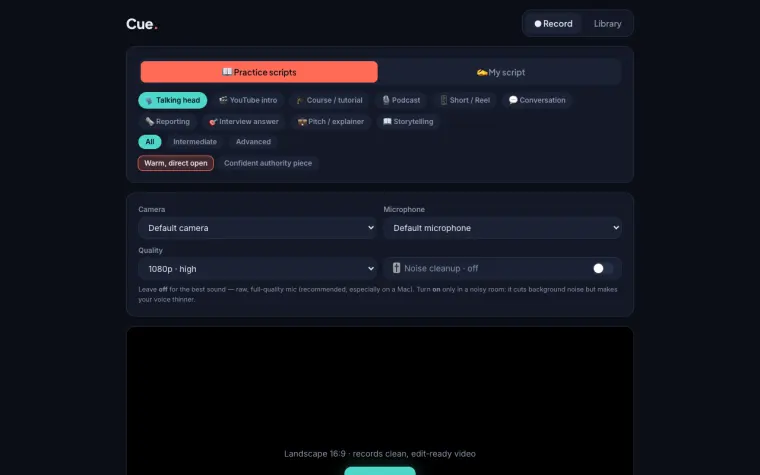
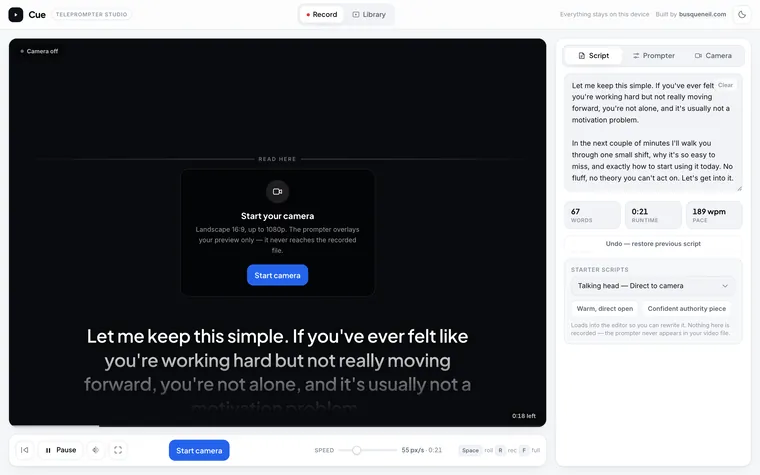
Free tools: add Orbit, refresh the Cue shot, clear the Talk pill
Orbit joins /free with a current dark-mode screenshot of the live app, so the
page no longer omits the biggest thing on it. Cue's screenshot was the old dark
build from before yesterday's studio rebuild; it is now the light studio mid-roll
with the prompter running, and /work picks up the same two assets.

Six cards means the inherited nth-child(4)/(5) span-3 rhythm left card six alone
in a row with four empty columns, so /free is a clean 3 + 3 above 980px and
untouched below it.

The page promised "no email address" while Orbit needs an account, so the promise
now says what is actually true: no card, no trial, no call, and Orbit's free plan
stays free.

Also gives the Talk pill somewhere to sit. Measured with elementFromPoint: while
Neil is live it covered all four phone tabs at 390px and RSS / Resume / Contact /
LinkedIn at 1440px.

diff --git a/src/styles/v8.css b/src/styles/v8.css
@@ -106,6 +106,20 @@ html.rail-collapsed .v8 .rail-id { align-items: center; justify-content: center;
    fixed to the viewport and was covering LinkedIn/GitHub at <=768px. */
 .v8 .shell-foot { display: flex; justify-content: space-between; gap: 16px; flex-wrap: wrap; margin-top: 72px; padding-top: 20px; padding-bottom: 56px; border-top: 1px solid var(--hair); font-size: 13px; color: var(--muted); }
 .v8 .shell-foot a { color: inherit; text-decoration: none; margin-left: 14px; }
+/* ---- Talk concierge pill: keep it off the site's own bottom chrome ----
+   The pill (talk.busqueneil.com/widget.js) is fixed to the bottom-right and appears
+   only while Neil is actually live, which is exactly why this was easy to miss: at
+   390px it sat squarely on the phone tab bar and swallowed all four tabs, and at
+   1440px it covered RSS / Resume / Contact / LinkedIn. Measured with elementFromPoint,
+   not by eye. The widget reads --talk-bottom through the shadow boundary and stamps
+   html[data-talk-bubble="live"] while the pill is up, so the footer only pays for the
+   clearance when there is something to clear. */
+#talk-widget-root { --talk-bottom: 22px; }
+@media (max-width: 900px) {
+  /* the fixed tab bar owns the bottom ~72px here, safe-area padding included */
+  #talk-widget-root { --talk-bottom: 92px; --talk-bottom-sm: 92px; }
+}
+html[data-talk-bubble="live"] .v8 .shell-foot { padding-bottom: 116px; }
 /* Socials live in the desktop rail; the rail is hidden under 900px, so phones and tablets
    get them here instead. */
 /* Story / Blog / Shop leave the phone tab bar, so they surface here instead. Desktop
@@ -710,7 +724,19 @@ html.rail-collapsed .v8 .rail-id { align-items: center; justify-content: center;
 .rail-collapsed .v8 .rail-book span, .v8 .shell.is-collapsed .rail-book span { display: none; }
 
 /* ---- free page ---- */
-.v8 .free-grid .offer-card:nth-child(4), .v8 .free-grid .offer-card:nth-child(5) { grid-column: span 3; }
+/* Six cards since Orbit joined, so the grid is a clean 3 + 3. The inherited
+   nth-child(4)/(5) span-3 rhythm was tuned for the original five and left card 6
+   stranded alone in a row with four empty columns. Both overrides are needed: the
+   span AND the taller 16/7 shot that rode with it.
+   ⚠ Scoped to the 6-column layout ONLY. Unscoped, this out-specifies the
+   max-width:980px `span 1` rule, so cards 4 and 5 went full-bleed on tablet and, in
+   the single-column phone grid, `span 2` invented an implicit second column and
+   crushed cards 1/3/6 to 2px wide. */
+@media (min-width: 981px) {
+  .v8 .free-grid .offer-card:nth-child(4), .v8 .free-grid .offer-card:nth-child(5) { grid-column: span 2; }
+  .v8 .free-grid .offer-card:nth-child(4) .offer-shot,
+  .v8 .free-grid .offer-card:nth-child(5) .offer-shot { aspect-ratio: 16 / 10; }
+}
 .v8 .free-shot { display: grid; place-items: center; aspect-ratio: 16 / 10; border-bottom: 1px solid var(--hair);
   background: linear-gradient(160deg, #FFFFFF 0%, #FAFAFA 55%, #F5F5F5 100%); position: relative; }
 .v8 .free-shot::after { content: ""; position: absolute; inset: 0;
